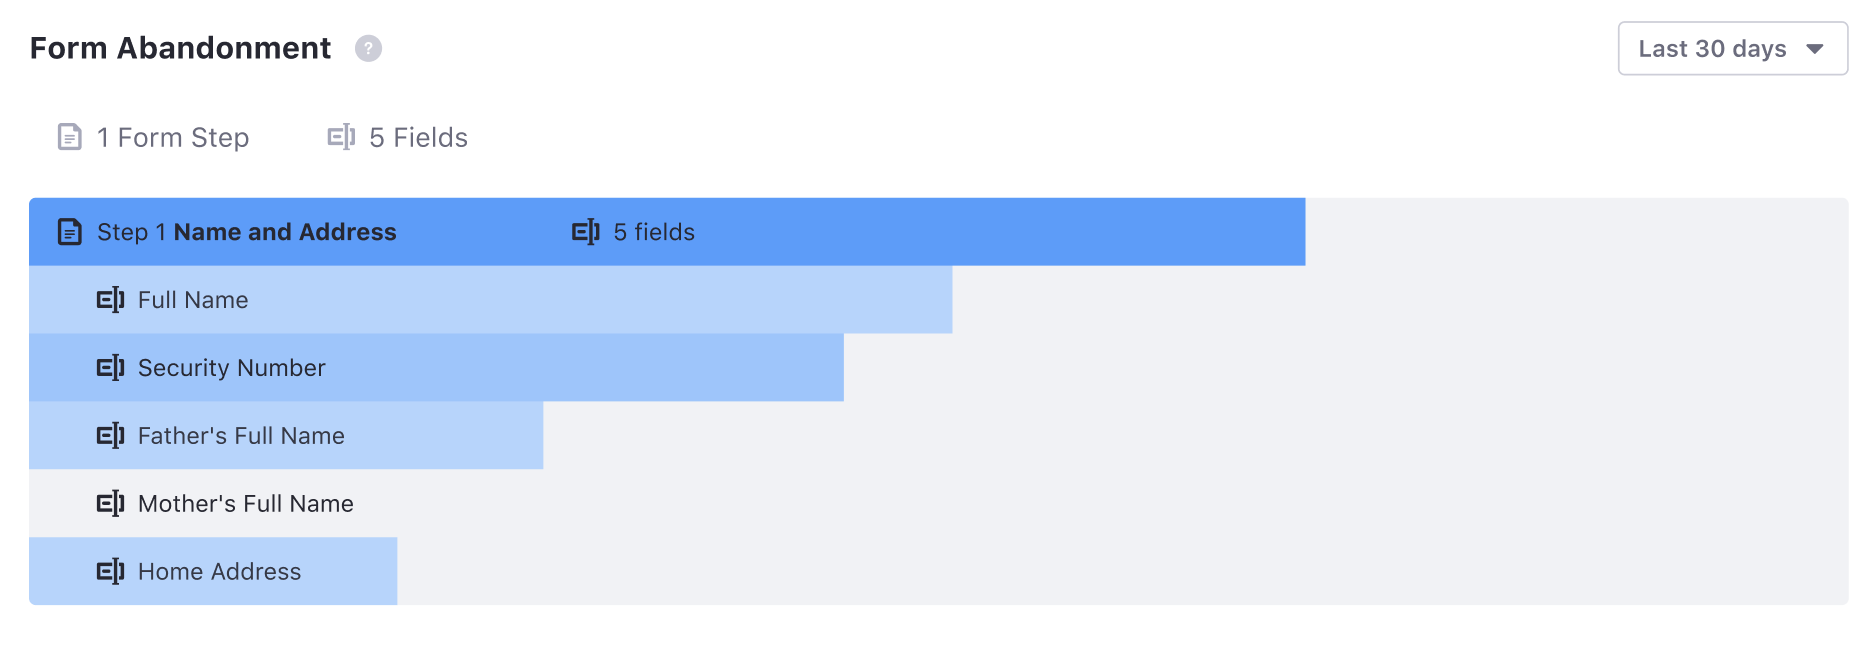
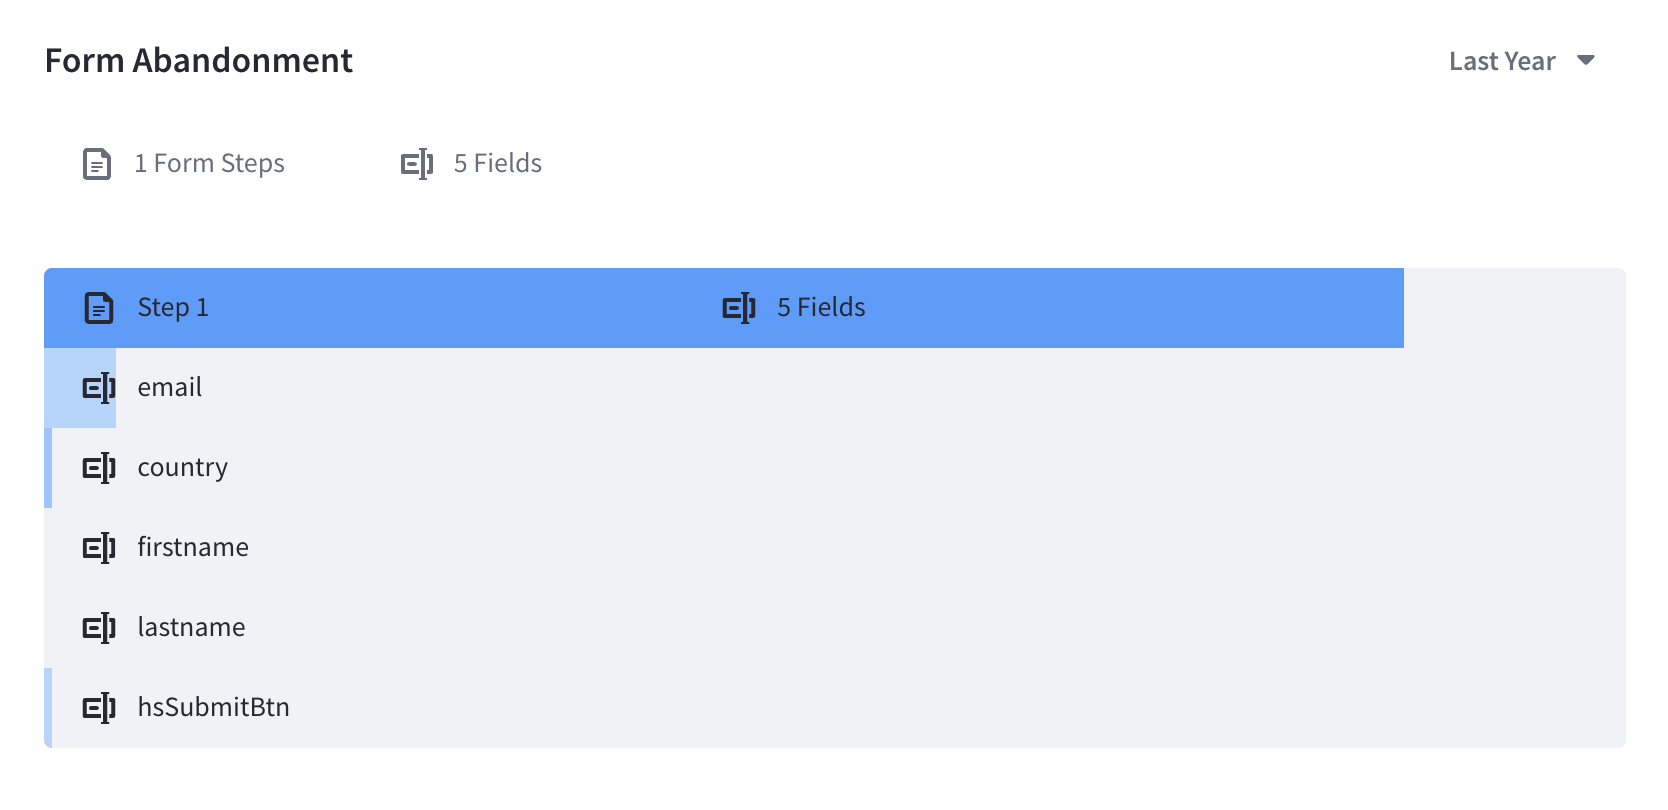
LRDOCS-9007 form abandonment update

diff --git a/docs/analytics-cloud/latest/en/touchpoints/assets/forms.md b/docs/analytics-cloud/latest/en/touchpoints/assets/forms.md
@@ -78,20 +78,11 @@ Click Web Browser to see a donut chart displaying up to the top eight web browse
 
 ## Form Abandonment
 
-The Form Abandonment chart is unique to Forms.
-
-Form Abandonment appears as a bar graph. The height of the first bar shows the total number of people (Views) who have interacted with the form in any way, even just scrolling past it on the page. The rest of the bars show the percentage of those people that interacted with a specific field by clicking into it. The gross numbers on the right y-axis are the number of people who interacted with the field by clicking into it.
-
-Form Abandonment gives you these metrics on each form field:
-
-* Number of clicks into the field
-* Percentage of Users who abandoned the form at this field.
-* The time spent interacting with the field (includes abandonments)
-* The refill percent for the field. Out of the total number that filled out the field, this answers the question, "What percentage had to edit or enter new information into the field after moving on in the form?"
+Form Abandonment chart displays a bar graph. For the first row Step 1, the blue bar represents the portion of your visitors that abandoned the form without any interaction. Note that if your form has multiple steps there will be a new row for each step followed by the input fields in that step.
 
 ![Form Abandonment charts help to breakdown user interactions with specific elements on a form.](forms/images/06.png)
 
-Form Abandonment helps you get down to the field level in diagnosing potential issues with your forms. For example, in your Newsletter Sign-Up form, if you included a required field that asked for users to provide their first child's full name, you may see a lot of form abandonment on that field, not only because some form users don't have children. If you make that field not required, you'll get less abandonment on that field, and if you remove that field from the form entirely, you'll eliminate all abandonment from offended parents.
+For each input field, the blue bar represents the portion of visitors that abandoned the form at that particular field. This is useful information to have to diagnose potential issues with your forms. For example, in the image above, no visitor abandoned the form when inputting their first and last name. But some abandoned the form when inputting their email. With your own forms, use this analytics data to remove any input fields that seem to cause frequent form abandonment.
 
 ## Asset Appears On
 
